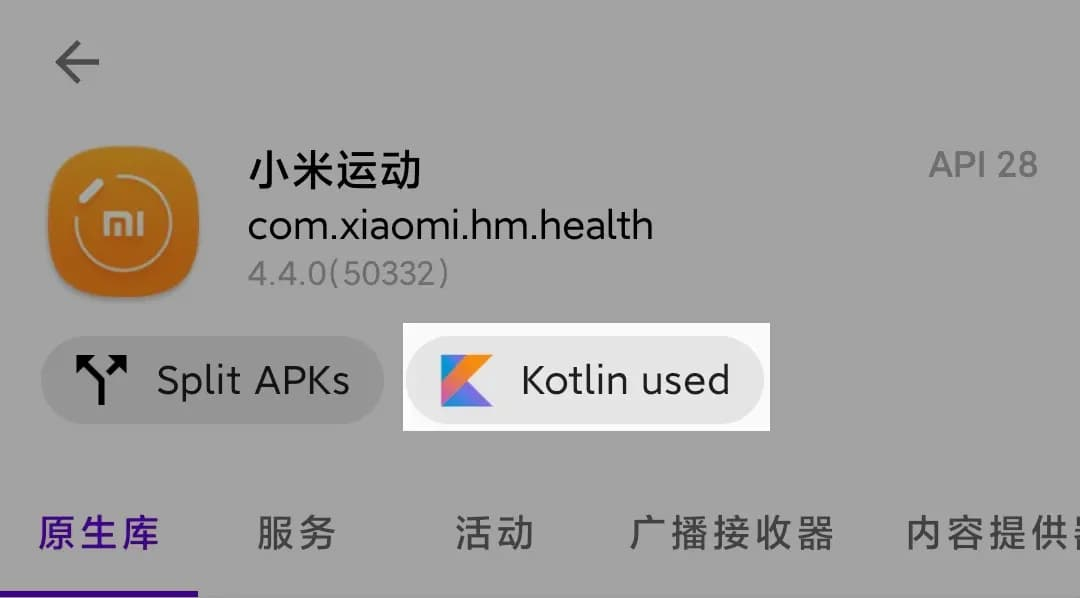
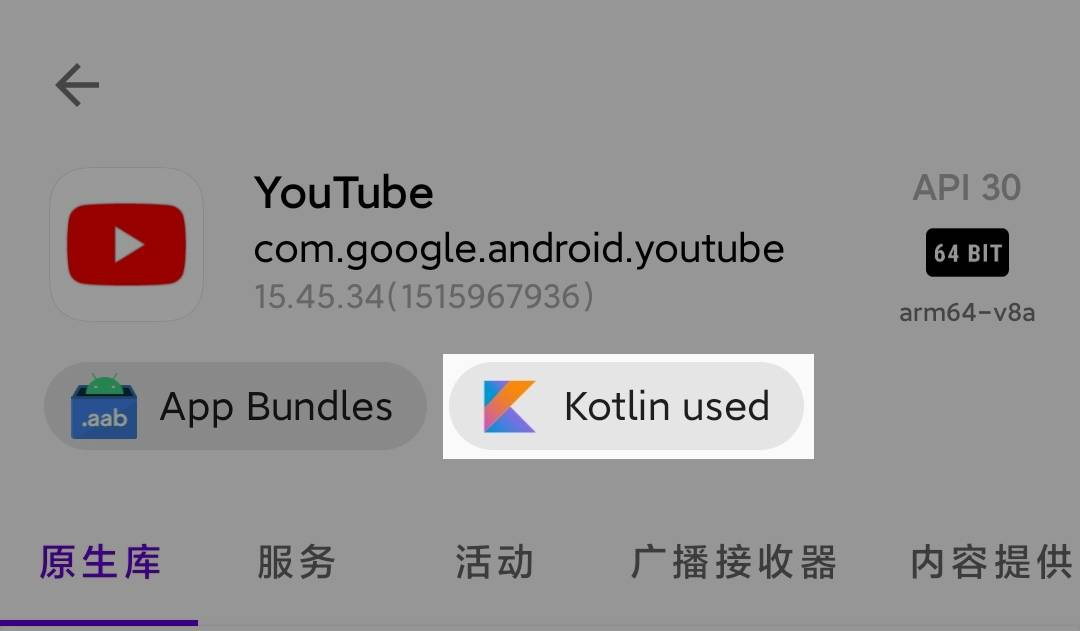
Update docs.

diff --git a/docs/guide/Snapshot-Usage.md b/docs/guide/Snapshot-Usage.md
@@ -9,3 +9,40 @@
 第一次进入快照页面时列表是空白的，这时您可以点击主页右下角的 **保存当前快照** 按钮，随后等待一段时间。保存成功后在页面上方会显示当前快照的时间戳。此时列表仍然为空，不用疑惑，去更新应用吧！回来会看到惊喜。
 
 <img src="./img/snapshot_create.jpg" alt="snapshot_create" style="zoom:30%;" /> <img src="./img/snapshot_list.jpg" alt="snapshot_list" style="zoom:30%;" />
+
+## 仪表盘区功能
+
+快照页面的上方有着显示时间戳和快照应用数量的仪表盘，现在它可以点击进入，进行一些进阶操作。
+
+<img src="./img/snapshot_album.jpg" alt="snapshot_album" style="zoom:30%;" />
+
+### 对比
+得益于对多副本快照的支持，LibChecker 现在可以进行两个快照之间的比较。
+
+<img src="./img/snapshot_comparison.jpg" alt="snapshot_comparison" style="zoom:30%;" />
+
+在上方仪表盘选择两个不同的快照，然后点击右下角的“比较”，就这么简单。现在你可以比较任意两个时间点的应用变更了！
+
+### 管理
+
+管理功能用于删除已有的快照，未来会加入更多的功能。
+
+### 备份与恢复
+
+备份与恢复功能提供了简单的快照备份与恢复，目前只能选择备份和恢复全部快照，未来将会提供选择任意快照备份的功能。
+
+::: warning 警告
+备份功能使用 SAF 框架实现，其依赖系统中的 **文件(com.google.android.documentsui)** 应用。请确保你的 ROM 中包含此应用并可正常工作。如果你的 ROM 不能正常工作，请联系你的设备制造商。
+:::
+
+
+
+### 追踪
+
+追踪功能用于强制对比处于追踪列表中的应用。由于性能方面的考虑，LibChecker 基于以下条件对快照项进行对比：
+
+* 新的 App 的 versionCode > 旧的 App 的 versionCode
+* 新的 App 的 lastUpdateTime > 旧的 App 的 lastUpdateTime
+* App 存在于追踪列表中
+
+对于一些系统预装应用来说，其 versionCode 和 lastUpdateTime 可能不会发生变化，此时您可以将此 App 加入到追踪列表中。

diff --git a/docs/guide/Package-Features-Analysis.md b/docs/guide/Package-Features-Analysis.md
@@ -2,11 +2,11 @@
 
 嘿！Android 的安装包（APK）文件中存在着大量的文件，我们也许可以从中发现点什么。
 
-## Split APKs
+## Android App Bundles
 
 LibChecker 可以检测安装包是否为 Google Play 分发的 AAB 安装包，详情请参考 [Android App Bundle 简介](https://developer.android.com/guide/app-bundle)。
 
-<img src="./img/split_apks.jpg" alt="split_apks" style="zoom:50%;" />
+<img src="./img/android_app_bundles.jpg" alt="split_apks" style="zoom:50%;" />
 
 ## Kotlin
 

diff --git a/docs/guide/README.md b/docs/guide/README.md
@@ -47,9 +47,10 @@ LibChecker 还有着一些特色功能：
 
 ## LibChecker 将要做什么
 
-- 多快照副本
+- 向外提供标记规则的 SDK
 - 自定义规则仓库
-- 快照保存应用权限信息等更多的信息
+- 时间线
+- 云端更新本地标记库
 - ...
 
 ## 思维导图
